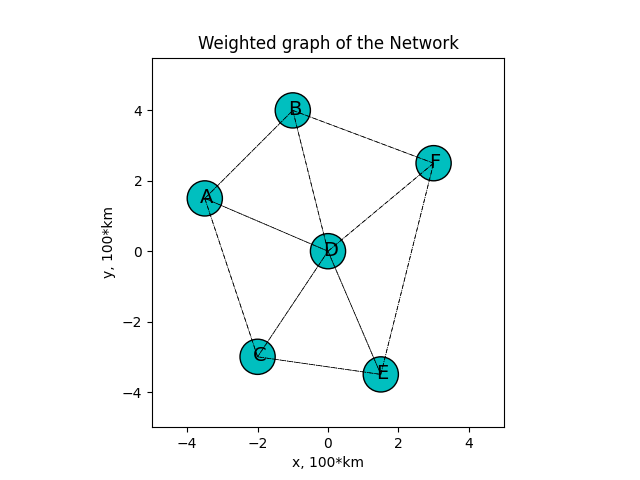
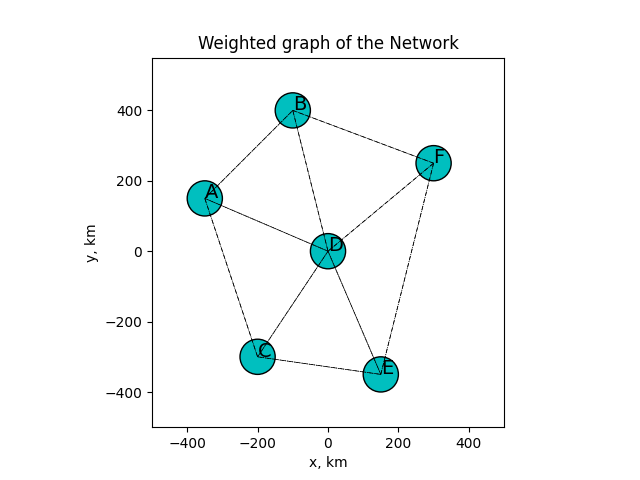
lab 9 point 1 + code for computing the area of a polygonal network

diff --git a/core/elements.py b/core/elements.py
@@ -9,7 +9,8 @@ import core.info as info
 import core.utils as utils
 import pandas as pd
 from scipy.special import erfcinv
-
+from core.parameters import *
+from scipy.spatial import ConvexHull
 
 # import/export paths
 root = Path(__file__).parent.parent
@@ -31,12 +32,12 @@ class Node:
         current_node = lightpath.path[0]
         index = current_path.index(current_node)
         if (index != 0) & (index != (len(current_path) - 1)):
-            previous_node = current_path[index-1]
-            next_node = current_path[index+1]
+            previous_node = current_path[index - 1]
+            next_node = current_path[index + 1]
             if lightpath.channel != (len(self.switching_matrix[previous_node][next_node]) - 1):
-                self.switching_matrix[previous_node][next_node][lightpath.channel+1] = 0
+                self.switching_matrix[previous_node][next_node][lightpath.channel + 1] = 0
             if lightpath.channel != 0:
-                self.switching_matrix[previous_node][next_node][lightpath.channel-1] = 0
+                self.switching_matrix[previous_node][next_node][lightpath.channel - 1] = 0
         if len(lightpath.path) != 1:  # if not at the last node of the path
             # save the next line label
             line_label = lightpath.path[0] + lightpath.path[1]
@@ -68,13 +69,11 @@ class Line:
         self.length = length
         self.successive = dict()
         self.state = np.ones(10, dtype=int)  # 1 means 'free', 10 is the number of WDM channels
-        self.n_amplifiers = np.floor(length / 80e3)  # an amplifier every 80km
-        self.gain = 10 ** (16 / 10)  # 16dB in linear units
-        self.n_figure = 10 ** (3 / 10)  # 3dB in linear units
-        self.alpha = 0.2 / (20 * np.log10(np.exp(1)))
-        self.beta2 = 2.13e-26
-        self.gamma = 1.27e-3
-
+        self.n_amplifiers = np.floor(length / 80e3)  # number of amplifiers, an amplifier every 80km
+        self.eta = 16 / (27 * math.pi) * np.log(
+            (math.pi ** 2) / 2 * (beta2 * (sym_rate ** 2)) / alpha_m * (
+                    10 ** (2 * sym_rate / df))) * alpha_m / beta2 * ((gamma ** 2) * ((l_eff * 1e3) ** 2)) / (
+                           sym_rate ** 3)  # eta, formula from 08_NLI.pdf, slide 38
 
     def line_propagate(self, lightpath, current_path):
         # save the successive node label
@@ -120,25 +119,21 @@ class Line:
         h = consts.h
         f = 193.414e12
         noise_bw = 12.5e9
-        ase = self.n_amplifiers * (h * f * noise_bw * self.n_figure * (self.gain-1))
+        ase = self.n_amplifiers * (h * f * noise_bw * n_figure * (gain - 1))
         return ase
 
     def nli_generation(self, lightpath, power=1):
-        if power == 1:  # if nothing was passed as power, set to the lightpath
+        if power == 1:  # if nothing was passed as power, set to the lightpath power
             power = lightpath.signal_power
-        l_eff = 1 / (2 * self.alpha)  # [km]
-        alpha_m = 1 / (1 / self.alpha * 1e3)
-        noise_bw = 12.5e9
-        n_span = self.n_amplifiers-1
-        eta = 16 / (27 * math.pi) * np.log((math.pi ** 2) / 2 * (self.beta2 * (lightpath.sym_rate ** 2)) / alpha_m * (10 ** (2 * lightpath.sym_rate / lightpath.df))) * alpha_m / self.beta2 * ((self.gamma ** 2) * ((l_eff * 1e3) ** 2)) / (lightpath.sym_rate ** 3)
-        nli = n_span * eta * (lightpath.signal_power ** 3) * noise_bw
+        noise_bw = 12.5e9  # [Hz]
+        n_span = self.n_amplifiers - 1  # number of fiber spans
+        nli = n_span * self.eta * (power ** 3) * noise_bw
         return nli
 
     def optimized_lauch_power(self, lightpath):
-        noise_bw = 12.5e9
+        noise_bw = 12.5e9  # [Hz]
         h = consts.h
-        f = 193.414e12
-        # idea: usare un vettore di potenze per trovare quella corrispondente all'ottimo
+        f = 193.414e12  # [Hz]
 
 
 class Network:
@@ -171,7 +166,6 @@ class Network:
                 line_length = np.sqrt((x2 - x1) ** 2 + (y2 - y1) ** 2)
                 # save the length as attribute of the instance of the line
                 self.lines[line_label] = Line(line_label, line_length)
-
 
     def connect(self):
         for node_label, node_value in self.nodes.items():
@@ -261,7 +255,8 @@ class Network:
 
     def propagate(self, light_path, current_path):
         first_node = light_path.path[0]
-        self.nodes[first_node].node_propagate(light_path, current_path)  # calling the propagate method for the first node
+        self.nodes[first_node].node_propagate(light_path,
+                                              current_path)  # calling the propagate method for the first node
         return light_path
 
     def probe(self, signal_information):
@@ -277,16 +272,21 @@ class Network:
             # saving labels in vector
             label.append(i)
             # saving positions in vector
-            xi = float(j.position[0]) * 1e-5
+            xi = float(j.position[0]) * 1e-3
             x.append(xi)
-            yi = float(j.position[1]) * 1e-5
+            yi = float(j.position[1]) * 1e-3
             y.append(yi)
+        coord_array = np.transpose(np.array([x, y]))
+        hull = ConvexHull(coord_array)  # Get the boundary coordinates
+        network_area = utils.PolyArea(coord_array[hull.vertices, 0], coord_array[hull.vertices, 1])  # compute area
+        print('The area of the network is around', '{:.2f}'.format(network_area), 'km^2')
+
         fig, ax = plt.subplots(1)
         ax.set_aspect('equal')
-        plt.axis([-5, 5, -5, 5.5])
+        plt.axis([-5e2, 5e2, -5e2, 5.5e2])
         plt.title('Weighted graph of the Network')
-        plt.xlabel('x, 100*km')
-        plt.ylabel('y, 100*km')
+        plt.xlabel('x, km')
+        plt.ylabel('y, km')
         for i in label:
             indx = label.index(i)
             for j in self.nodes[i].connected_nodes:
@@ -297,7 +297,7 @@ class Network:
                         yy = [y[indx2], y[indx]]
                         plt.plot(xx, yy, 'k-.', linewidth=0.5)  # lines
         for xx, yy, s in zip(x, y, label):
-            circ = plt.Circle((xx, yy), radius=0.5)  # circles
+            circ = plt.Circle((xx, yy), radius=0.5e2)  # circles
             circ.set_facecolor('c')
             circ.set_edgecolor('k')
             ax.txt = plt.text(xx - 0.13, yy - 0.13, s, fontsize=14)  # labels
@@ -377,9 +377,10 @@ class Network:
         ber = 1e-3
         noise_bw = 12.5e9
         row_index = self.weighted_lines.index[self.weighted_lines['Path'] == path_string].tolist()
-        gsnr = self.weighted_lines.loc[row_index, 'SNR'].tolist()[0]
+        gsnr = self.weighted_lines.loc[row_index, 'SNR'].tolist()[0]  # in dB
+        gsnr = 10 ** (gsnr / 10)  # in linear scale
         if strategy == 'fixed_rate':
-            condition = 2 * (erfcinv(2*ber) ** 2) * (sym_rate / noise_bw)
+            condition = 2 * (erfcinv(2 * ber) ** 2) * (sym_rate / noise_bw)
             if gsnr >= condition:
                 bit_rate = 100.0
             else:

diff --git a/core/utils.py b/core/utils.py
@@ -77,8 +77,8 @@ def route_space_build(network):
 # function for updating the route space dataframe after the deployment of a connection
 def route_space_update(network, path):
     line_string = ''
-    for index in range(0, len(path)-1):  # loop on all the lines of the path
-        line_string = path[index] + '->' + path[index+1]
+    for index in range(0, len(path) - 1):  # loop on all the lines of the path
+        line_string = path[index] + '->' + path[index + 1]
         for row in network.route_space.itertuples():  # loop on all possible paths
             if row.Path.find(line_string) != -1:
                 # if it's not found the find gives back -1, while it gives back the index at which it was found (not -1)
@@ -102,3 +102,9 @@ def route_space_update(network, path):
                 col_index = network.route_space.columns != 'Path'
                 network.route_space.loc[row_index, col_index] = update_rs
     return
+
+
+# Function for computing the area of the network
+def PolyArea(x, y):
+    area = 0.5 * np.abs(np.dot(x, np.roll(y, 1)) - np.dot(y, np.roll(x, 1)))
+    return area

diff --git a/core/parameters.py b/core/parameters.py
@@ -1,0 +1,11 @@
+import numpy as np
+
+gain = 10 ** (16 / 10)  # 16dB in linear units
+n_figure = 10 ** (3 / 10)  # 3dB in linear units
+alpha = 0.2 / (20 * np.log10(np.exp(1)))  # [1/km]
+beta2 = 2.13e-26  # [(m * Hz^2)^-1]
+gamma = 1.27e-3  # [(m W)^-1]
+l_eff = 1 / (2 * alpha)  # [km]
+alpha_m = 1 / (1 / alpha * 1e3)  # [1/m]
+sym_rate = 32e9  # [Hz]
+df = 50e9  # [Hz]

diff --git a/LAB9/LAB9.py b/LAB9/LAB9.py
@@ -9,3 +9,4 @@ out_directory = root / 'results'
 
 network = el.Network()
 network.connect()
+network.draw_network()
